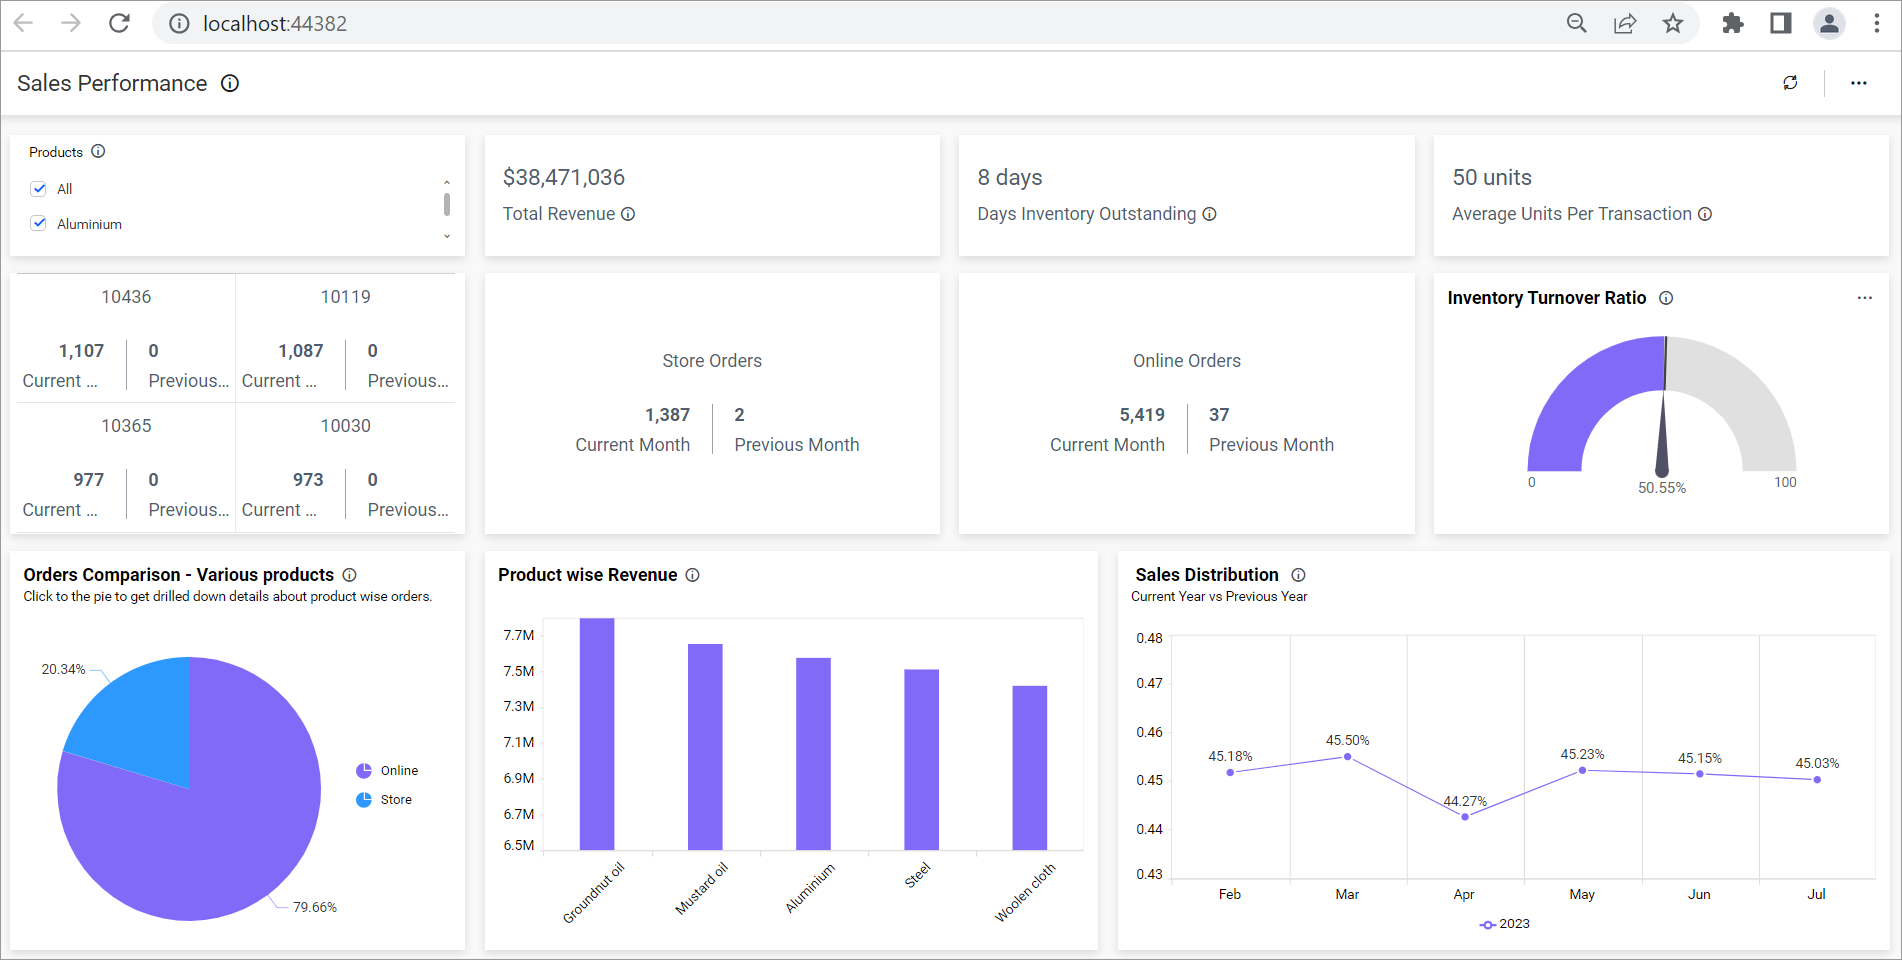
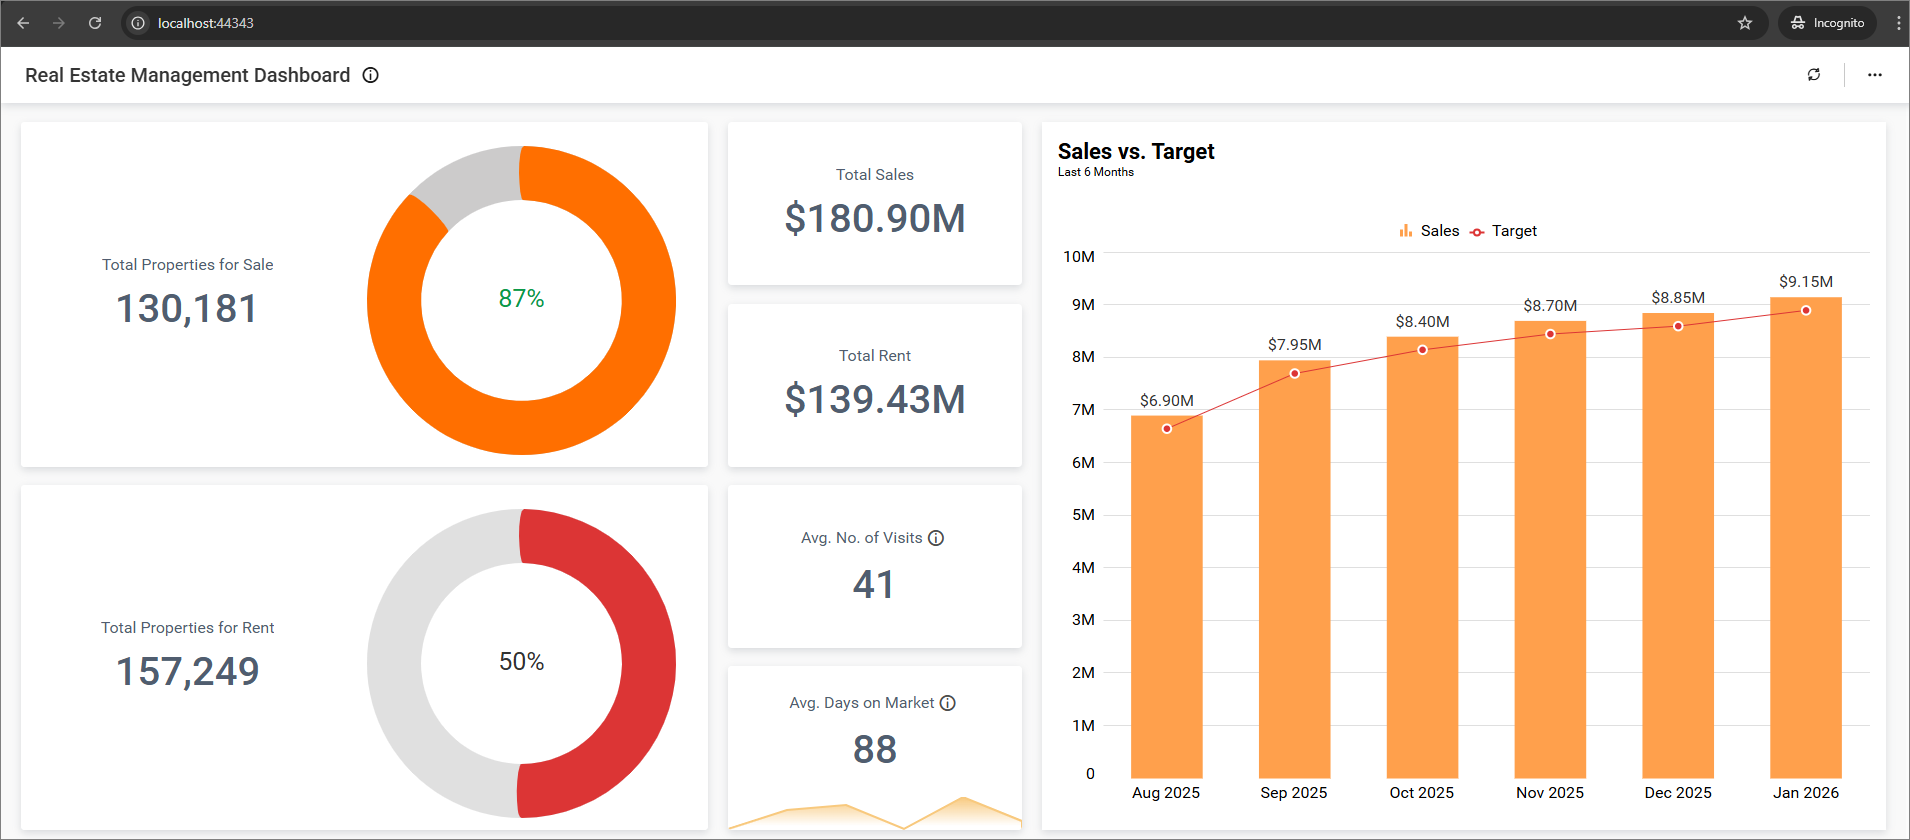
updated sample with embedtoken

diff --git a/BoldBIEmbedSample/Default.aspx.cs b/BoldBIEmbedSample/Default.aspx.cs
@@ -1,54 +1,53 @@
 using System;
-using System.Collections.Generic;
-using System.Linq;
 using System.Net.Http;
-using System.Security.Cryptography;
-using System.Web;
+using System.Text;
 using System.Web.Services;
 using System.Web.UI;
-using System.Web.UI.WebControls;
 using BoldBIEmbedSample.Models;
+using Newtonsoft.Json;
+using Newtonsoft.Json.Linq;
 namespace BoldBIEmbedSample
 {
     public partial class _Default : Page
     {
         [WebMethod()]
-        public static void AuthorizationServer(string embedQuerString, string dashboardServerApiUrl)
+        public static string TokenGeneration()
         {
-            embedQuerString += "&embed_user_email=" + GlobalAppSettings.EmbedDetails.UserEmail;
-            //To set embed_server_timestamp to overcome the EmbedCodeValidation failing while different timezone using at client application.
-            double timeStamp = (int)DateTime.UtcNow.Subtract(new DateTime(1970, 1, 1)).TotalSeconds;
-            embedQuerString += "&embed_server_timestamp=" + timeStamp;
-            var embedDetailsUrl = "/embed/authorize?" + embedQuerString + "&embed_signature=" + GetSignatureUrl(embedQuerString);
-
-            using (var client = new HttpClient())
+            var embedDetails = new
             {
-                client.BaseAddress = new Uri(dashboardServerApiUrl);
-                client.DefaultRequestHeaders.Accept.Clear();
+                email = GlobalAppSettings.EmbedDetails.UserEmail,
+                serverurl = GlobalAppSettings.EmbedDetails.ServerUrl,
+                siteidentifier = GlobalAppSettings.EmbedDetails.SiteIdentifier,
+                embedsecret = GlobalAppSettings.EmbedDetails.EmbedSecret,
+                dashboard = new  // Dashboard ID property is mandatory only when using BoldBI version 14.1.11.
+                {
+                    id = GlobalAppSettings.EmbedDetails.DashboardId
+                }
+            };
 
-                var result = client.GetAsync(dashboardServerApiUrl + embedDetailsUrl).Result;
-                string resultContent = result.Content.ReadAsStringAsync().Result;
-                //return resultContent;
-                var js = new System.Web.Script.Serialization.JavaScriptSerializer();
+            //Post call to Bold BI server
+            var client = new HttpClient();
+            var requestUrl = $"{embedDetails.serverurl}/api/{embedDetails.siteidentifier}/embed/authorize";
 
-                HttpContext.Current.Response.Clear();
-                HttpContext.Current.Response.ContentType = "application/json; charset=utf-8";
-                HttpContext.Current.Response.Write(js.Serialize(resultContent));
-                HttpContext.Current.Response.Flush();
-                HttpContext.Current.Response.End();
-            }
-        }
+            var jsonPayload = JsonConvert.SerializeObject(embedDetails);
+            var httpContent = new StringContent(jsonPayload, Encoding.UTF8, "application/json");
 
-        public static string GetSignatureUrl(string message)
-        {
-            var encoding = new System.Text.UTF8Encoding();
-            var keyBytes = encoding.GetBytes(GlobalAppSettings.EmbedDetails.EmbedSecret);
-            var messageBytes = encoding.GetBytes(message);
-            using (var hmacsha1 = new HMACSHA256(keyBytes))
-            {
-                var hashMessage = hmacsha1.ComputeHash(messageBytes);
-                return Convert.ToBase64String(hashMessage);
-            }
+            var result = client.PostAsync(requestUrl, httpContent).Result;
+            var resultContent = result.Content.ReadAsStringAsync().Result;
+
+            // Extract token from server response
+            var json = JObject.Parse(resultContent);
+            var token = json["Data"]?["access_token"]?.ToString() ?? json["access_token"]?.ToString();
+
+            // Write raw token to the HTTP response so client-side `response.text()` returns the token string
+            var resp = System.Web.HttpContext.Current.Response;
+            resp.Clear();
+            resp.ContentType = "text/plain";
+            resp.Write(token);
+            resp.Flush();
+            resp.End();
+
+            return token;
         }
 
         protected void Page_Load(object sender, EventArgs e)
